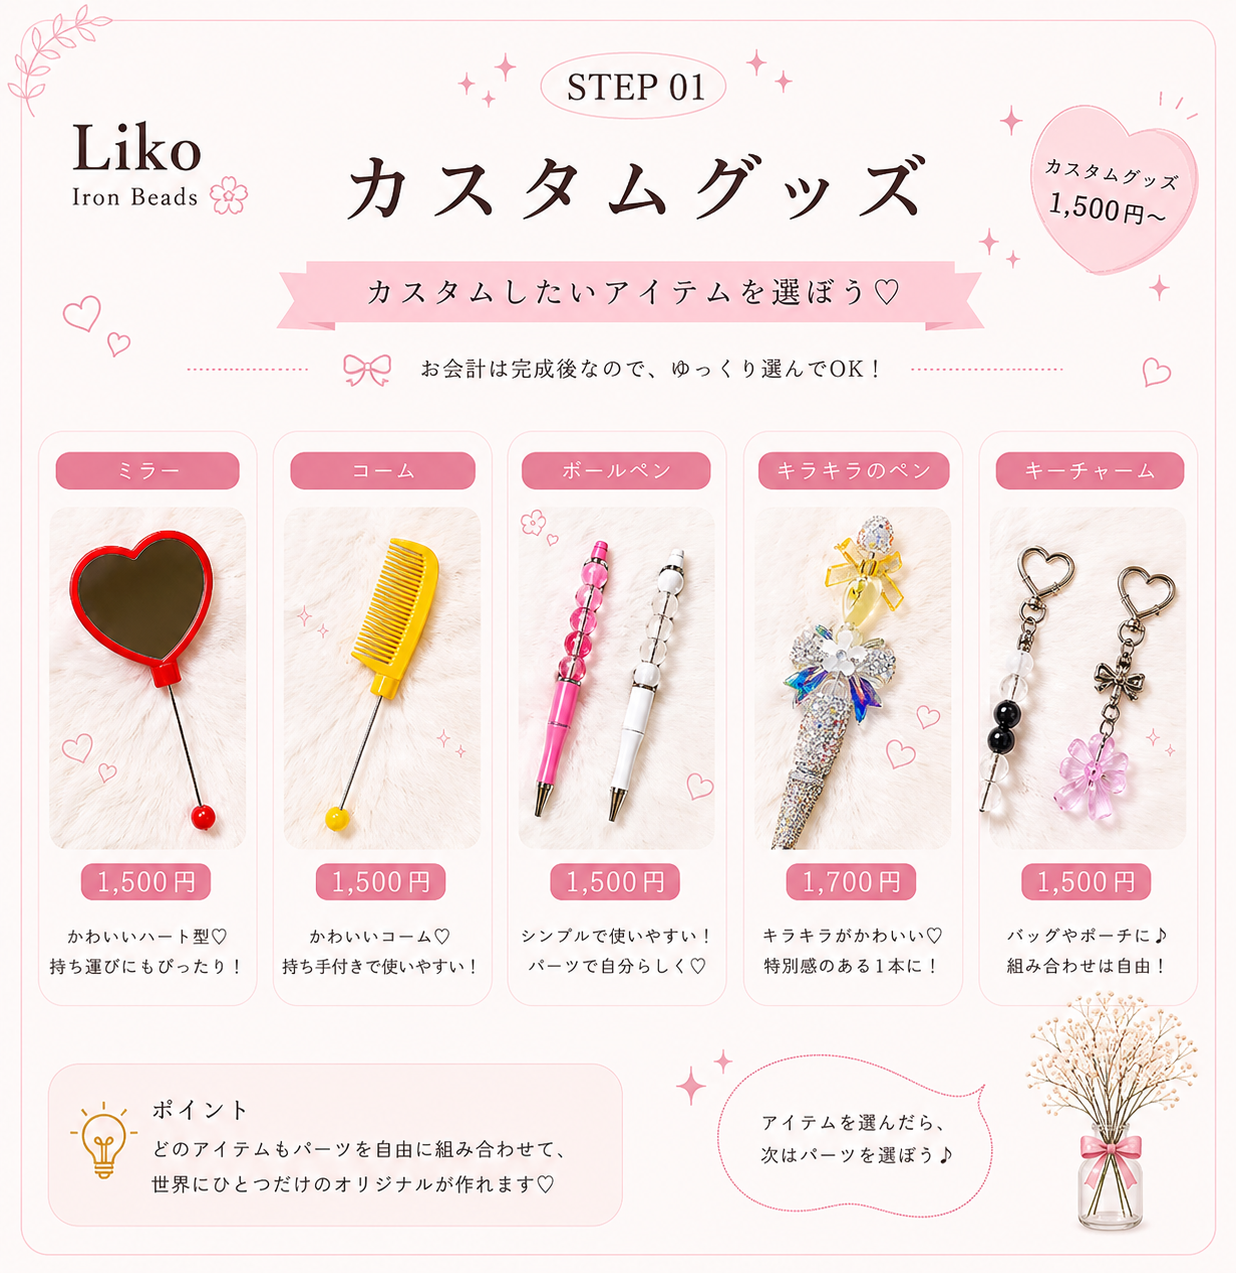
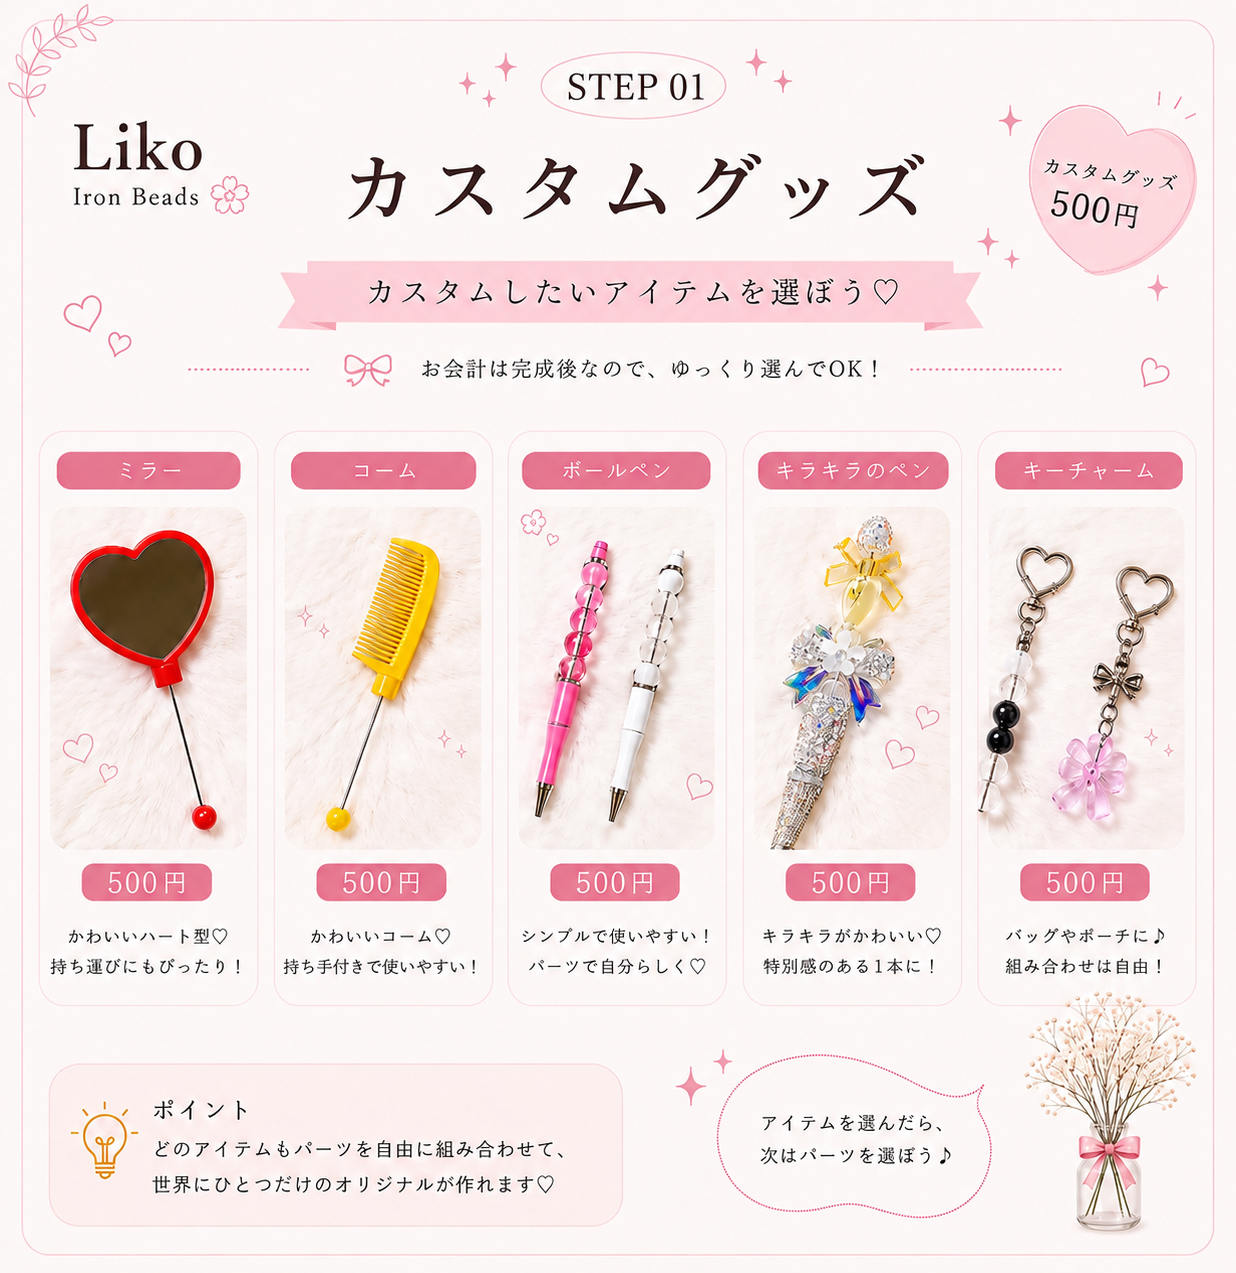
カスタムグッズ¥500均一・キーボード1プラン¥500に改定、両体験の新ガイド画像に差し替え

diff --git a/index.html b/index.html
@@ -314,15 +314,12 @@ const ACTIVITIES = [
   {id:"pen",      name:"カスタムグッズづくり",     icon:"ti-pencil",    time:"約20分",
    imgFamily:"custom", steps:3,
    plans:[
-     {name:"一般プラン", priceText:"¥1,500〜", note:"ミラー・コーム・ボールペン・キーチャーム等（アイテムにより価格が変わります）"},
+     {name:"一般プラン", price:500, note:"ミラー・コーム・ボールペン・キーチャーム等 全アイテム¥500"},
    ]},
   {id:"keyboard", name:"カスタムキーボード",       icon:"ti-keyboard",  time:"約45分",
    imgFamily:"keyboard", steps:3,
    plans:[
-     {name:"1個プラン", price:500,  note:"パーツ付け放題",
-      guideImgs:["keyboard1_step01","keyboard_step02","keyboard1_step03"]},
-     {name:"4個プラン", price:1500, note:"パーツ付け放題",
-      guideImgs:["keyboard4_step01","keyboard_step02","keyboard4_step03"]},
+     {name:"一般プラン", price:500, note:"キーボード部分が1個でも4個でも¥500・パーツ付け放題"},
    ]},
   {id:"ring",     name:"コインリング",             icon:"ti-ring",      time:"約40分・スタッフと一緒に",
    staffOnly:true},
@@ -875,7 +872,9 @@ const EN = {
   "お好きなパーツを20個お選びいただけます":"Choose any 20 parts you like",
   "お持ち込みのメガネ・サングラスをカスタムできます":"Customize your own glasses or sunglasses",
   "キャンバスは大・小サイズから選べます":"Canvas available in large or small size","小サイズのみ":"Small size only",
-  "パーツ付け放題":"Unlimited parts","ブーケ包装 無料・手提げ袋 ＋¥100":"Bouquet wrapping free / paper bag +¥100",
+  "パーツ付け放題":"Unlimited parts",
+  "ミラー・コーム・ボールペン・キーチャーム等 全アイテム¥500":"Mirror, comb, pen, key charm, etc. — all items ¥500",
+  "キーボード部分が1個でも4個でも¥500・パーツ付け放題":"¥500 for 1 or 4 keycaps / unlimited parts","ブーケ包装 無料・手提げ袋 ＋¥100":"Bouquet wrapping free / paper bag +¥100",
   "ミラー・コーム・ボールペン・キーチャーム等（アイテムにより価格が変わります）":"Mirror, comb, pen, key charm, etc. (price varies by item)",
   "追加30分 ¥500":"Extra 30 min ¥500","1本 ¥600〜":"¥600+ per flower","¥1,500〜":"¥1,500+","60分〜":"60 min+",
   "南堀江店限定":"Minami-Horie store only","約40分・スタッフと一緒に":"approx. 40 min · with staff",
